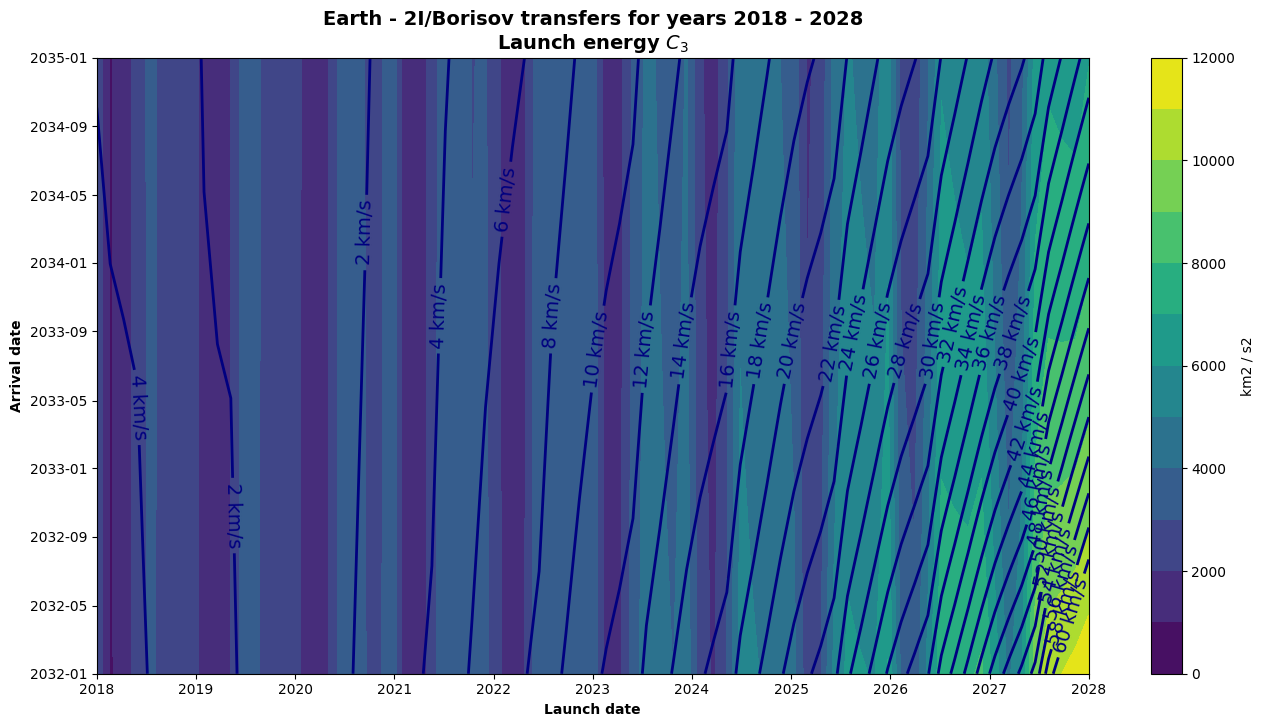
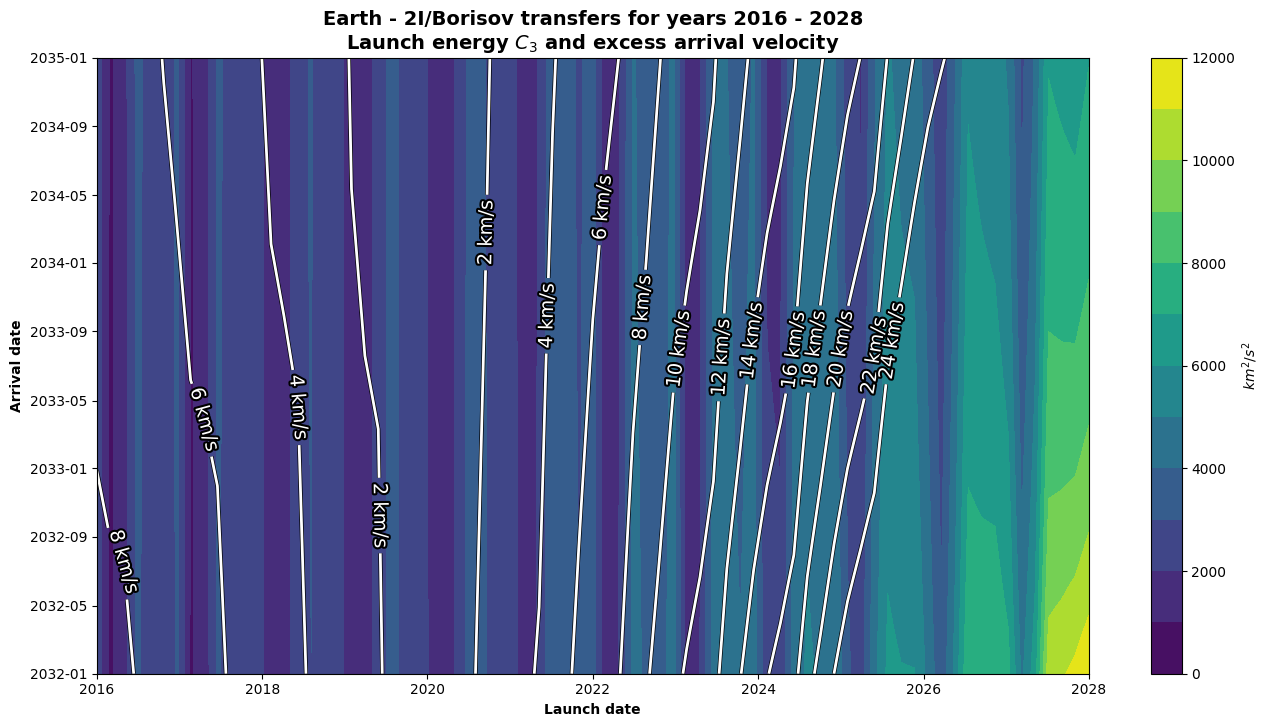
feat: complete direct analsys

diff --git a/src/03_direct/porkchops.tex b/src/03_direct/porkchops.tex
@@ -1,4 +1,4 @@
-\section{Porkchop plots}
+\section{Porkchop plots analysis}
 
 This section presents the results computed for a direct orbit transfer between
 Earth and the two interstellar objects. The analysis is performed by solving the
@@ -10,12 +10,13 @@ The ephemerides for 1I/'Omuaumua and 2I/Borisov are obtained from JPL Horizons
 API service. These are propagated under the two-body assumption to simplify the
 analysis. Propagation starts on January 1, 2016 and ends on January 1, 2035.
 
-\subsection{Characteristic energy}
+\subsection{Characteristic energy anslysis}
 
 Porkchop plots for 'Oumuaumua and Borisov are shown in figure
 \ref{fig:oumuamua-direct-transfer-porkchop} and figure
 \ref{fig:borisov-direct-transfer-porkchop}. The limits for the characteristic
-energy range between 0 and 12000 km$^2$/s$^2$.
+energy range between 0 and 12000 km$^2$/s$^2$. Isolines for the time of flight
+are also included in these plots.
 
 \newpage
 \begin{figure}[H]
@@ -30,6 +31,7 @@ energy range between 0 and 12000 km$^2$/s$^2$.
   \caption{Launch energy porkchop plot for 2I/Borisov.}
   \label{fig:borisov-direct-transfer-porkchop}
 \end{figure}
+\newpage
 
 The contour maps show a periodic pattern, with a minimum energy transfer
 corridor every year. This year corresponds to a more favorable position of the
@@ -50,3 +52,43 @@ Finally, both porkchops show a similar contour map. This is due to the long
 distance exhibited by the two interlopers in the future positions depicted in
 the porkchop plot. The short-time transfer scenarios show differences between
 'Oumuamua and Borisov, but the long-time transfer scenarios show similar values.
+
+\subsection{Arrival velocity analysis}
+
+Figures \ref{fig:oumuamua-direct-transfer-porkchop-avl} and
+\ref{fig:borisov-direct-transfer-porkchop-avl} show the isolines for the excess
+arrival velocity. Values up to $24$ km/s are represented. Higher values may be
+represented but they are not shown in the plots for graphic convenience.
+
+The values are extraordinary high. Even if with a targeting mission (no second
+impulse), the available observation time and coma samples capture would be
+minimum. The direct rendezvous scenario seems unfeasible for nowadays
+technology.
+
+For 'Oumuamua, launch dates after 2022 lead to an excess arrival velocity
+greater than $10$ km/s. For Borisov, any launch date after 2023 leads to the same
+situation.
+
+It is worth noting that the optimum dates for a lower closer to the discovery of
+the interlopers. If a ready-to-launch mission would have been available, a quick
+launch may have lead to a close targeting with these interplanetary objects.
+
+\newpage
+\begin{figure}[H]
+  \centering
+  \includegraphics[width=\textwidth]{static/oumuamua/direct-transfer-porkchop-avl.png}
+  \caption{Launch energy porkchop plot for 1I/'Oumuamua showing the isolines for
+        excess arrival velocity. Compared to 2I/Borisov, a rendezvous with
+        'Oumuamua leads to more excess arrival velocity for the time of flight.}
+  \label{fig:oumuamua-direct-transfer-porkchop-avl}
+\end{figure}
+\begin{figure}[H]
+  \centering
+  \includegraphics[width=\textwidth]{static/borisov/direct-transfer-porkchop-avl.png}
+  \caption{Launch energy porkchop plot for 2I/Borisov showing the isoliens for
+        excess arrival velocity. The shorter the flight of time, the greater the
+        excess arrival velocity. Values are minimized for a transfer close to
+        the discovery of the object.}
+  \label{fig:borisov-direct-transfer-porkchop-avl}
+\end{figure}
+\newpage

diff --git a/bin/oumuamua_porkchop_avl.py b/bin/oumuamua_porkchop_avl.py
@@ -1,0 +1,39 @@
+from astropy import units as u
+from astropy.time import Time
+from matplotlib import pyplot as plt
+import numpy as np
+
+from poliastro.bodies import Earth, Sun
+from poliastro.ephem import Ephem
+from poliastro.twobody import Orbit
+from poliastro.plotting.porkchop import PorkchopPlotter
+from poliastro.util import time_range
+
+
+def main():
+
+    N = 75
+    launch_span = time_range("2016-01-01", end="2028-01-01", num_values=N)
+    arrival_span = time_range("2032-01-01", end="2035-01-01", num_values=N)
+
+    oumuamua_ephem = Ephem.from_horizons("'Oumuamua", launch_span)
+    oumuamua = Orbit.from_ephem(Sun, oumuamua_ephem, Time("2016-01-01"))
+
+    _, ax = plt.subplots(figsize=(16, 8))
+    porkchop = PorkchopPlotter(
+        Earth, oumuamua, launch_span, arrival_span, ax=ax,
+    )
+    porkchop.plot(
+        c3_levels=np.linspace(0, 12e3, 13) * u.km ** 2 / u.s ** 2,
+        av_levels=np.linspace(0, 24, 13) * u.km / u.s,
+        plot_c3_lines=False,
+        plot_tof_lines=False,
+        plot_dv_lines=False,
+        plot_av_lines=True,
+        title="Earth - 2I/Oumuamua transfers for years 2016 - 2028\nLaunch energy $C_3$ and excess arrival velocity"
+    )
+    plt.savefig("fig/static/oumuamua/direct-transfer-porkchop-avl.png", bbox_inches="tight")
+    plt.show()
+
+if __name__ == "__main__":
+    main()

diff --git a/bin/borisov_porkchop_avl.py b/bin/borisov_porkchop_avl.py
@@ -1,0 +1,39 @@
+from astropy import units as u
+from astropy.time import Time
+from matplotlib import pyplot as plt
+import numpy as np
+
+from poliastro.bodies import Earth, Sun
+from poliastro.ephem import Ephem
+from poliastro.twobody import Orbit
+from poliastro.plotting.porkchop import PorkchopPlotter
+from poliastro.util import time_range
+
+
+def main():
+
+    N = 75
+    launch_span = time_range("2016-01-01", end="2028-01-01", num_values=N)
+    arrival_span = time_range("2032-01-01", end="2035-01-01", num_values=N)
+
+    borisov_ephem = Ephem.from_horizons("C/2019 Q4", launch_span)
+    borisov = Orbit.from_ephem(Sun, borisov_ephem, Time("2016-01-01"))
+
+    _, ax = plt.subplots(figsize=(16, 8))
+    porkchop = PorkchopPlotter(
+        Earth, borisov, launch_span, arrival_span, ax=ax,
+    )
+    porkchop.plot(
+        c3_levels=np.linspace(0, 12e3, 13) * u.km ** 2 / u.s ** 2,
+        av_levels=np.linspace(0, 24, 13) * u.km / u.s,
+        plot_c3_lines=False,
+        plot_tof_lines=False,
+        plot_dv_lines=False,
+        plot_av_lines=True,
+        title="Earth - 2I/Borisov transfers for years 2016 - 2028\nLaunch energy $C_3$ and excess arrival velocity"
+    )
+    plt.savefig("fig/static/borisov/direct-transfer-porkchop-avl.png", bbox_inches="tight")
+    plt.show()
+
+if __name__ == "__main__":
+    main()
